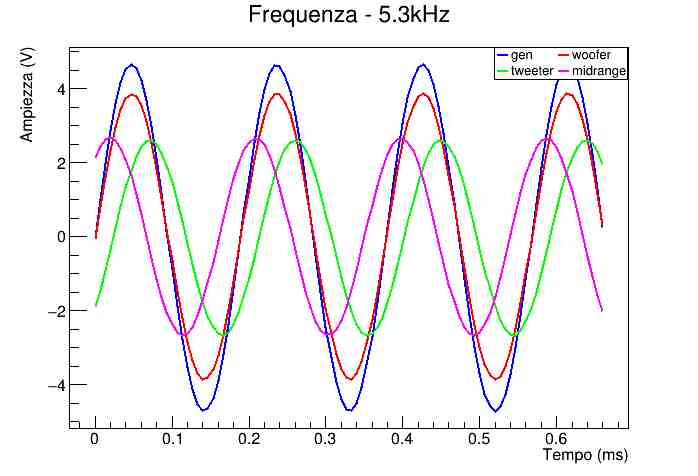
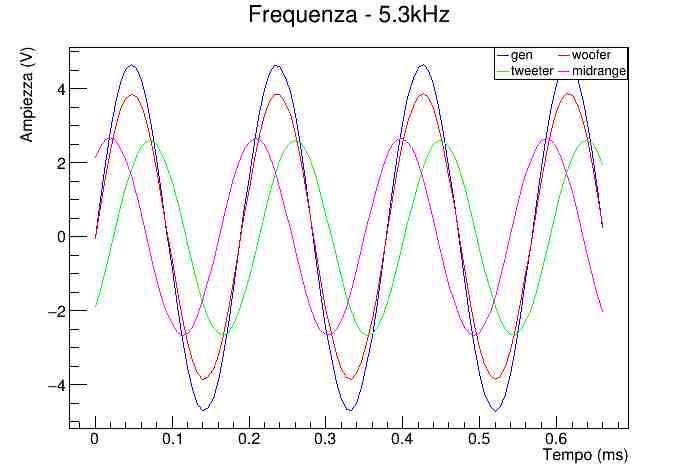
made line thinner

Changed region(s): [[0.1203, 0.1176, 0.8725, 0.8824], [0.8424, 0.5588, 0.8725, 0.6471], [0.692, 0.1471, 0.7221, 0.1765]]

diff --git a/multigrafico_tempo_2kHz_11kHz.tex b/multigrafico_tempo_2kHz_11kHz.tex
@@ -146,7 +146,7 @@
 \draw [anchor= east] (1.112,5.70996) node[scale=0.535452, color=c, rotate=0]{4};
 \draw [anchor= east] (0.583519,6.36377) node[scale=0.535452, color=c, rotate=90]{ Ampiezza (V)};
 \definecolor{c}{rgb}{0,0,1};
-\draw [c,line width=1.8] (1.50909,3.57257) -- (1.5628,4.20827) -- (1.6165,4.80173) -- (1.67021,5.31715) -- (1.72392,5.7203) -- (1.77762,5.9917) -- (1.83133,6.10876) -- (1.88504,6.06857) -- (1.93874,5.87088) -- (1.99245,5.52578) -- (2.04615,5.06012)
+\draw [c,line width=0.9] (1.50909,3.57257) -- (1.5628,4.20827) -- (1.6165,4.80173) -- (1.67021,5.31715) -- (1.72392,5.7203) -- (1.77762,5.9917) -- (1.83133,6.10876) -- (1.88504,6.06857) -- (1.93874,5.87088) -- (1.99245,5.52578) -- (2.04615,5.06012)
  -- (2.09986,4.4976) -- (2.15357,3.87995) -- (2.20727,3.24272) -- (2.26098,2.62259) -- (2.31469,2.06487) -- (2.36839,1.60197) -- (2.4221,1.25611) -- (2.4758,1.06322) -- (2.52951,1.02525) -- (2.58322,1.14616) -- (2.63692,1.41942) -- (2.69063,1.82889)
  -- (2.74434,2.34728) -- (2.79804,2.94048) -- (2.85175,3.57283) -- (2.90545,4.20776) -- (2.95916,4.80097) -- (3.01287,5.31663) -- (3.06657,5.72099) -- (3.12028,5.99161) -- (3.17399,6.10884) -- (3.22769,6.0684) -- (3.2814,5.8719) -- (3.3351,5.52518)
  -- (3.38881,5.06047) -- (3.44252,4.49837) -- (3.49622,3.87909) -- (3.54993,3.24314) -- (3.60364,2.62353) -- (3.65734,2.0653) -- (3.71105,1.60188) -- (3.76476,1.25799) -- (3.81846,1.06399) -- (3.87217,1.02491) -- (3.92587,1.1453) -- (3.97958,1.41891)
@@ -158,7 +158,7 @@
  (7.25566,6.06814) -- (7.30937,5.87045) -- (7.36308,5.52364) -- (7.41678,5.05824) -- (7.47049,4.49718) -- (7.5242,3.87721) -- (7.5779,3.24084) -- (7.63161,2.62165) -- (7.68531,2.06265) -- (7.73902,1.60103) -- (7.79273,1.25902) -- (7.84643,1.06433) --
  (7.90014,1.02491) -- (7.95385,1.14496) -- (8.00755,1.41857) -- (8.06126,1.83171) -- (8.11497,2.34856) -- (8.16867,2.94296) -- (8.22238,3.57523) -- (8.27608,4.20972) -- (8.32979,4.80131) -- (8.3835,5.31792) -- (8.4372,5.7227) -- (8.49091,5.99264);
 \definecolor{c}{rgb}{1,0,0};
-\draw [c,line width=1.8] (1.50909,2.91465) -- (1.5628,3.40192) -- (1.6165,3.90064) -- (1.67021,4.37842) -- (1.72392,4.80558) -- (1.77762,5.1558) -- (1.83133,5.40667) -- (1.88504,5.54271) -- (1.93874,5.55382) -- (1.99245,5.4401) -- (2.04615,5.20864)
+\draw [c,line width=0.9] (1.50909,2.91465) -- (1.5628,3.40192) -- (1.6165,3.90064) -- (1.67021,4.37842) -- (1.72392,4.80558) -- (1.77762,5.1558) -- (1.83133,5.40667) -- (1.88504,5.54271) -- (1.93874,5.55382) -- (1.99245,5.4401) -- (2.04615,5.20864)
  -- (2.09986,4.87381) -- (2.15357,4.45759) -- (2.20727,3.98631) -- (2.26098,3.48913) -- (2.31469,2.99716) -- (2.36839,2.54051) -- (2.4221,2.14772) -- (2.4758,1.84394) -- (2.52951,1.64831) -- (2.58322,1.57426) -- (2.63692,1.62685) -- (2.69063,1.80204)
  -- (2.74434,2.08804) -- (2.79804,2.46715) -- (2.85175,2.91423) -- (2.90545,3.40149) -- (2.95916,3.90055) -- (3.01287,4.37816) -- (3.06657,4.8055) -- (3.12028,5.15597) -- (3.17399,5.40684) -- (3.22769,5.54314) -- (3.2814,5.55408) -- (3.3351,5.44044)
  -- (3.38881,5.20924) -- (3.44252,4.87415) -- (3.49622,4.45793) -- (3.54993,3.98691) -- (3.60364,3.48964) -- (3.65734,2.99716) -- (3.71105,2.54051) -- (3.76476,2.14789) -- (3.81846,1.84394) -- (3.87217,1.64848) -- (3.92587,1.57435) --
@@ -171,7 +171,7 @@
  -- (7.84643,1.84385) -- (7.90014,1.64797) -- (7.95385,1.57426) -- (8.00755,1.62685) -- (8.06126,1.80255) -- (8.11497,2.08881) -- (8.16867,2.468) -- (8.22238,2.91551) -- (8.27608,3.40303) -- (8.32979,3.90166) -- (8.3835,4.37953) -- (8.4372,4.80644)
  -- (8.49091,5.157);
 \definecolor{c}{rgb}{0,1,0};
-\draw [c,line width=1.8] (1.50909,4.28342) -- (1.5628,4.30463) -- (1.6165,4.27941) -- (1.67021,4.21135) -- (1.72392,4.1061) -- (1.77762,3.96246) -- (1.83133,3.79624) -- (1.88504,3.61627) -- (1.93874,3.43774) -- (1.99245,3.26854) -- (2.04615,3.11763)
+\draw [c,line width=0.9] (1.50909,4.28342) -- (1.5628,4.30463) -- (1.6165,4.27941) -- (1.67021,4.21135) -- (1.72392,4.1061) -- (1.77762,3.96246) -- (1.83133,3.79624) -- (1.88504,3.61627) -- (1.93874,3.43774) -- (1.99245,3.26854) -- (2.04615,3.11763)
  -- (2.09986,2.99691) -- (2.15357,2.91337) -- (2.20727,2.87079) -- (2.26098,2.87293) -- (2.31469,2.9203) -- (2.36839,3.0105) -- (2.4221,3.1349) -- (2.4758,3.29205) -- (2.52951,3.46681) -- (2.58322,3.6467) -- (2.63692,3.82292) -- (2.69063,3.97785) --
  (2.74434,4.11507) -- (2.79804,4.21861) -- (2.85175,4.28069) -- (2.90545,4.30343) -- (2.95916,4.27855) -- (3.01287,4.21118) -- (3.06657,4.10695) -- (3.12028,3.96322) -- (3.17399,3.79641) -- (3.22769,3.61627) -- (3.2814,3.43749) -- (3.3351,3.26871) --
  (3.38881,3.11814) -- (3.44252,2.99708) -- (3.49622,2.91397) -- (3.54993,2.87199) -- (3.60364,2.87233) -- (3.65734,2.92064) -- (3.71105,3.01059) -- (3.76476,3.1361) -- (3.81846,3.29273) -- (3.87217,3.4669) -- (3.92587,3.64508) -- (3.97958,3.82095) --
@@ -183,7 +183,7 @@
  (7.25566,3.61558) -- (7.30937,3.43689) -- (7.36308,3.26897) -- (7.41678,3.11806) -- (7.47049,2.99605) -- (7.5242,2.91406) -- (7.5779,2.86994) -- (7.63161,2.87233) -- (7.68531,2.92021) -- (7.73902,3.00853) -- (7.79273,3.13405) -- (7.84643,3.29256) --
  (7.90014,3.46741) -- (7.95385,3.64764) -- (8.00755,3.82249) -- (8.06126,3.97827) -- (8.11497,4.1155) -- (8.16867,4.21673) -- (8.22238,4.28129) -- (8.27608,4.30369) -- (8.32979,4.27864) -- (8.3835,4.21118) -- (8.4372,4.10678) -- (8.49091,3.96314);
 \definecolor{c}{rgb}{1,0,1};
-\draw [c,line width=1.8] (1.50909,4.48606) -- (1.5628,4.5212) -- (1.6165,4.49795) -- (1.67021,4.41723) -- (1.72392,4.28462) -- (1.77762,4.10815) -- (1.83133,3.89842) -- (1.88504,3.66705) -- (1.93874,3.43056) -- (1.99245,3.20552) -- (2.04615,3.00734)
+\draw [c,line width=0.9] (1.50909,4.48606) -- (1.5628,4.5212) -- (1.6165,4.49795) -- (1.67021,4.41723) -- (1.72392,4.28462) -- (1.77762,4.10815) -- (1.83133,3.89842) -- (1.88504,3.66705) -- (1.93874,3.43056) -- (1.99245,3.20552) -- (2.04615,3.00734)
  -- (2.09986,2.84608) -- (2.15357,2.73092) -- (2.20727,2.66876) -- (2.26098,2.6614) -- (2.31469,2.71099) -- (2.36839,2.81471) -- (2.4221,2.96536) -- (2.4758,3.15688) -- (2.52951,3.37781) -- (2.58322,3.61575) -- (2.63692,3.8519) -- (2.69063,4.06873)
  -- (2.74434,4.2529) -- (2.79804,4.39509) -- (2.85175,4.48589) -- (2.90545,4.52086) -- (2.95916,4.49752) -- (3.01287,4.41732) -- (3.06657,4.28479) -- (3.12028,4.10883) -- (3.17399,3.8985) -- (3.22769,3.66731) -- (3.2814,3.43047) -- (3.3351,3.20561)
  -- (3.38881,3.00734) -- (3.44252,2.84634) -- (3.49622,2.731) -- (3.54993,2.66884) -- (3.60364,2.6614) -- (3.65734,2.71091) -- (3.71105,2.81402) -- (3.76476,2.96536) -- (3.81846,3.15662) -- (3.87217,3.37806) -- (3.92587,3.61575) -- (3.97958,3.8519)
@@ -205,28 +205,28 @@
 \definecolor{c}{rgb}{1,1,1};
 \draw [c, fill=c] (7.03732,6.16609) -- (7.19782,6.16609) -- (7.19782,6.33382) -- (7.03732,6.33382);
 \definecolor{c}{rgb}{0,0,1};
-\draw [c,line width=1.8] (7.03732,6.24995) -- (7.19782,6.24995);
+\draw [c,line width=0.9] (7.03732,6.24995) -- (7.19782,6.24995);
 \foreach \P in {(7.11757,6.24995)}{\draw[mark options={color=c,fill=c},mark size=2.402402pt, line width=0.000000pt, mark=*,mark size=1pt] plot coordinates {\P};}
 \definecolor{c}{rgb}{0,0,0};
 \draw [anchor=base west] (8.06842,6.19604) node[scale=0.44621, color=c, rotate=0]{woofer};
 \definecolor{c}{rgb}{1,1,1};
 \draw [c, fill=c] (7.87353,6.16609) -- (8.03403,6.16609) -- (8.03403,6.33382) -- (7.87353,6.33382);
 \definecolor{c}{rgb}{1,0,0};
-\draw [c,line width=1.8] (7.87353,6.24995) -- (8.03403,6.24995);
+\draw [c,line width=0.9] (7.87353,6.24995) -- (8.03403,6.24995);
 \foreach \P in {(7.95378,6.24995)}{\draw[mark options={color=c,fill=c},mark size=2.402402pt, line width=0.000000pt, mark=*,mark size=1pt] plot coordinates {\P};}
 \definecolor{c}{rgb}{0,0,0};
 \draw [anchor=base west] (7.23221,5.95642) node[scale=0.44621, color=c, rotate=0]{tweeter};
 \definecolor{c}{rgb}{1,1,1};
 \draw [c, fill=c] (7.03732,5.92647) -- (7.19782,5.92647) -- (7.19782,6.0942) -- (7.03732,6.0942);
 \definecolor{c}{rgb}{0,1,0};
-\draw [c,line width=1.8] (7.03732,6.01034) -- (7.19782,6.01034);
+\draw [c,line width=0.9] (7.03732,6.01034) -- (7.19782,6.01034);
 \foreach \P in {(7.11757,6.01034)}{\draw[mark options={color=c,fill=c},mark size=2.402402pt, line width=0.000000pt, mark=*,mark size=1pt] plot coordinates {\P};}
 \definecolor{c}{rgb}{0,0,0};
 \draw [anchor=base west] (8.06842,5.95642) node[scale=0.44621, color=c, rotate=0]{midrange};
 \definecolor{c}{rgb}{1,1,1};
 \draw [c, fill=c] (7.87353,5.92647) -- (8.03403,5.92647) -- (8.03403,6.0942) -- (7.87353,6.0942);
 \definecolor{c}{rgb}{1,0,1};
-\draw [c,line width=1.8] (7.87353,6.01034) -- (8.03403,6.01034);
+\draw [c,line width=0.9] (7.87353,6.01034) -- (8.03403,6.01034);
 \foreach \P in {(7.95378,6.01034)}{\draw[mark options={color=c,fill=c},mark size=2.402402pt, line width=0.000000pt, mark=*,mark size=1pt] plot coordinates {\P};}
 \definecolor{c}{rgb}{0,0,0};
 \draw (5,6.81154) node[scale=0.803177, color=c, rotate=0]{Frequenza - 2kHz};
@@ -325,7 +325,7 @@
 \draw [anchor= east] (11.112,5.70841) node[scale=0.535452, color=c, rotate=0]{4};
 \draw [anchor= east] (10.5835,6.36377) node[scale=0.535452, color=c, rotate=90]{ Ampiezza (V)};
 \definecolor{c}{rgb}{0,0,1};
-\draw [c,line width=1.8] (11.5091,3.60098) -- (11.5811,4.29321) -- (11.653,4.93079) -- (11.725,5.4656) -- (11.797,5.85484) -- (11.869,6.07074) -- (11.941,6.09688) -- (12.0129,5.93028) -- (12.0849,5.58538) -- (12.1569,5.08508) -- (12.2289,4.47065) --
+\draw [c,line width=0.9] (11.5091,3.60098) -- (11.5811,4.29321) -- (11.653,4.93079) -- (11.725,5.4656) -- (11.797,5.85484) -- (11.869,6.07074) -- (11.941,6.09688) -- (12.0129,5.93028) -- (12.0849,5.58538) -- (12.1569,5.08508) -- (12.2289,4.47065) --
  (12.3008,3.78858) -- (12.3728,3.09045) -- (12.4448,2.42692) -- (12.5168,1.85215) -- (12.5888,1.40338) -- (12.6607,1.12222) -- (12.7327,1.02474) -- (12.8047,1.12213) -- (12.8767,1.40449) -- (12.9486,1.85257) -- (13.0206,2.42965) -- (13.0926,3.09301)
  -- (13.1646,3.79131) -- (13.2366,4.4751) -- (13.3085,5.08944) -- (13.3805,5.58632) -- (13.4525,5.93302) -- (13.5245,6.09723) -- (13.5964,6.07083) -- (13.6684,5.85313) -- (13.7404,5.46184) -- (13.8124,4.9272) -- (13.8843,4.28886) -- (13.9563,3.5967)
  -- (14.0283,2.90532) -- (14.1003,2.26033) -- (14.1723,1.71435) -- (14.2442,1.31026) -- (14.3162,1.07566) -- (14.3882,1.03158) -- (14.4602,1.18202) -- (14.5321,1.51136) -- (14.6041,1.99926) -- (14.6761,2.60359) -- (14.7481,3.28412) --
@@ -335,7 +335,7 @@
  -- (17.4112,1.9486) -- (17.4832,1.47369) -- (17.5552,1.15955) -- (17.6272,1.02884) -- (17.6992,1.08967) -- (17.7711,1.34144) -- (17.8431,1.76116) -- (17.9151,2.31834) -- (17.9871,2.96897) -- (18.059,3.6636) -- (18.131,4.35532) -- (18.203,4.98581) --
  (18.275,5.50695) -- (18.347,5.88261) -- (18.4189,6.08133) -- (18.4909,6.08988);
 \definecolor{c}{rgb}{1,0,0};
-\draw [c,line width=1.8] (11.5091,2.8134) -- (11.5811,2.95257) -- (11.653,3.13761) -- (11.725,3.35537) -- (11.797,3.58842) -- (11.869,3.8201) -- (11.941,4.03154) -- (12.0129,4.20838) -- (12.0849,4.33584) -- (12.1569,4.4053) -- (12.2289,4.41102) --
+\draw [c,line width=0.9] (11.5091,2.8134) -- (11.5811,2.95257) -- (11.653,3.13761) -- (11.725,3.35537) -- (11.797,3.58842) -- (11.869,3.8201) -- (11.941,4.03154) -- (12.0129,4.20838) -- (12.0849,4.33584) -- (12.1569,4.4053) -- (12.2289,4.41102) --
  (12.3008,4.35284) -- (12.3728,4.23469) -- (12.4448,4.06623) -- (12.5168,3.85966) -- (12.5888,3.63147) -- (12.6607,3.398) -- (12.7327,3.17767) -- (12.8047,2.98665) -- (12.8767,2.84023) -- (12.9486,2.74865) -- (13.0206,2.71977) -- (13.0926,2.75548) --
  (13.1646,2.8533) -- (13.2366,3.00502) -- (13.3085,3.20023) -- (13.3805,3.42277) -- (13.4525,3.65693) -- (13.5245,3.88435) -- (13.5964,4.08767) -- (13.6684,4.25144) -- (13.7404,4.36404) -- (13.8124,4.41547) -- (13.8843,4.40368) -- (13.9563,4.3279) --
  (14.0283,4.19523) -- (14.1003,4.0142) -- (14.1723,3.80045) -- (14.2442,3.56868) -- (14.3162,3.33691) -- (14.3882,3.12257) -- (14.4602,2.94291) -- (14.5321,2.80973) -- (14.6041,2.73524) -- (14.6761,2.7237) -- (14.7481,2.77718) -- (14.8201,2.89012) --
@@ -345,7 +345,7 @@
  (17.4832,3.67504) -- (17.5552,3.44088) -- (17.6272,3.21706) -- (17.6992,3.01912) -- (17.7711,2.86364) -- (17.8431,2.76146) -- (17.9151,2.72131) -- (17.9871,2.74489) -- (18.059,2.83211) -- (18.131,2.97469) -- (18.203,3.16289) -- (18.275,3.38168) --
  (18.347,3.61499) -- (18.4189,3.84454) -- (18.4909,4.05367);
 \definecolor{c}{rgb}{0,1,0};
-\draw [c,line width=1.8] (11.5091,4.70807) -- (11.5811,5.0803) -- (11.653,5.34198) -- (11.725,5.46833) -- (11.797,5.45372) -- (11.869,5.29542) -- (11.941,5.00981) -- (12.0129,4.61349) -- (12.0849,4.13688) -- (12.1569,3.61909) -- (12.2289,3.09968) --
+\draw [c,line width=0.9] (11.5091,4.70807) -- (11.5811,5.0803) -- (11.653,5.34198) -- (11.725,5.46833) -- (11.797,5.45372) -- (11.869,5.29542) -- (11.941,5.00981) -- (12.0129,4.61349) -- (12.0849,4.13688) -- (12.1569,3.61909) -- (12.2289,3.09968) --
  (12.3008,2.62153) -- (12.3728,2.21309) -- (12.4448,1.90827) -- (12.5168,1.73083) -- (12.5888,1.69239) -- (12.6607,1.79935) -- (12.7327,2.04086) -- (12.8047,2.40086) -- (12.8767,2.85475) -- (12.9486,3.36006) -- (13.0206,3.88477) -- (13.0926,4.38317)
  -- (13.1646,4.81879) -- (13.2366,5.16522) -- (13.3085,5.39161) -- (13.3805,5.48072) -- (13.4525,5.42647) -- (13.5245,5.23219) -- (13.5964,4.91063) -- (13.6684,4.48877) -- (13.7404,3.99857) -- (13.8124,3.47582) -- (13.8843,2.9629) --
  (13.9563,2.50099) -- (14.0283,2.11843) -- (14.1003,1.84659) -- (14.1723,1.70512) -- (14.2442,1.70751) -- (14.3162,1.85215) -- (14.3882,2.13022) -- (14.4602,2.51773) -- (14.5321,2.98905) -- (14.6041,3.50376) -- (14.6761,4.02479) -- (14.7481,4.50773)
@@ -355,7 +355,7 @@
  -- (17.4112,1.75211) -- (17.4832,1.68855) -- (17.5552,1.76877) -- (17.6272,1.98772) -- (17.6992,2.32885) -- (17.7711,2.76881) -- (17.8431,3.26609) -- (17.9151,3.79123) -- (17.9871,4.2974) -- (18.059,4.74685) -- (18.131,5.11062) -- (18.203,5.36043)
  -- (18.275,5.47431) -- (18.347,5.44646) -- (18.4189,5.27713) -- (18.4909,4.97735);
 \definecolor{c}{rgb}{1,0,1};
-\draw [c,line width=1.8] (11.5091,2.81486) -- (11.5811,3.02544) -- (11.653,3.27882) -- (11.725,3.5551) -- (11.797,3.83403) -- (11.869,4.09408) -- (11.941,4.31594) -- (12.0129,4.48176) -- (12.0849,4.58035) -- (12.1569,4.60333) -- (12.2289,4.54934) --
+\draw [c,line width=0.9] (11.5091,2.81486) -- (11.5811,3.02544) -- (11.653,3.27882) -- (11.725,3.5551) -- (11.797,3.83403) -- (11.869,4.09408) -- (11.941,4.31594) -- (12.0129,4.48176) -- (12.0849,4.58035) -- (12.1569,4.60333) -- (12.2289,4.54934) --
  (12.3008,4.42221) -- (12.3728,4.23153) -- (12.4448,3.99224) -- (12.5168,3.72229) -- (12.5888,3.44216) -- (12.6607,3.17315) -- (12.7327,2.93557) -- (12.8047,2.74762) -- (12.8767,2.62349) -- (12.9486,2.57232) -- (13.0206,2.59829) -- (13.0926,2.69935)
  -- (13.1646,2.86782) -- (13.2366,3.09105) -- (13.3085,3.35212) -- (13.3805,3.63062) -- (13.4525,3.90587) -- (13.5245,4.15695) -- (13.5964,4.36446) -- (13.6684,4.51303) -- (13.7404,4.59111) -- (13.8124,4.59291) -- (13.8843,4.5179) --
  (13.9563,4.37224) -- (14.0283,4.16686) -- (14.1003,3.91741) -- (14.1723,3.64275) -- (14.2442,3.36374) -- (14.3162,3.10164) -- (14.3882,2.87628) -- (14.4602,2.70474) -- (14.5321,2.59991) -- (14.6041,2.56984) -- (14.6761,2.61709) -- (14.7481,2.73788)
@@ -375,28 +375,28 @@
 \definecolor{c}{rgb}{1,1,1};
 \draw [c, fill=c] (17.0373,6.16609) -- (17.1978,6.16609) -- (17.1978,6.33382) -- (17.0373,6.33382);
 \definecolor{c}{rgb}{0,0,1};
-\draw [c,line width=1.8] (17.0373,6.24995) -- (17.1978,6.24995);
+\draw [c,line width=0.9] (17.0373,6.24995) -- (17.1978,6.24995);
 \foreach \P in {(17.1176,6.24995)}{\draw[mark options={color=c,fill=c},mark size=2.402402pt, line width=0.000000pt, mark=*,mark size=1pt] plot coordinates {\P};}
 \definecolor{c}{rgb}{0,0,0};
 \draw [anchor=base west] (18.0684,6.19604) node[scale=0.44621, color=c, rotate=0]{woofer};
 \definecolor{c}{rgb}{1,1,1};
 \draw [c, fill=c] (17.8735,6.16609) -- (18.034,6.16609) -- (18.034,6.33382) -- (17.8735,6.33382);
 \definecolor{c}{rgb}{1,0,0};
-\draw [c,line width=1.8] (17.8735,6.24995) -- (18.034,6.24995);
+\draw [c,line width=0.9] (17.8735,6.24995) -- (18.034,6.24995);
 \foreach \P in {(17.9538,6.24995)}{\draw[mark options={color=c,fill=c},mark size=2.402402pt, line width=0.000000pt, mark=*,mark size=1pt] plot coordinates {\P};}
 \definecolor{c}{rgb}{0,0,0};
 \draw [anchor=base west] (17.2322,5.95642) node[scale=0.44621, color=c, rotate=0]{tweeter};
 \definecolor{c}{rgb}{1,1,1};
 \draw [c, fill=c] (17.0373,5.92647) -- (17.1978,5.92647) -- (17.1978,6.0942) -- (17.0373,6.0942);
 \definecolor{c}{rgb}{0,1,0};
-\draw [c,line width=1.8] (17.0373,6.01034) -- (17.1978,6.01034);
+\draw [c,line width=0.9] (17.0373,6.01034) -- (17.1978,6.01034);
 \foreach \P in {(17.1176,6.01034)}{\draw[mark options={color=c,fill=c},mark size=2.402402pt, line width=0.000000pt, mark=*,mark size=1pt] plot coordinates {\P};}
 \definecolor{c}{rgb}{0,0,0};
 \draw [anchor=base west] (18.0684,5.95642) node[scale=0.44621, color=c, rotate=0]{midrange};
 \definecolor{c}{rgb}{1,1,1};
 \draw [c, fill=c] (17.8735,5.92647) -- (18.034,5.92647) -- (18.034,6.0942) -- (17.8735,6.0942);
 \definecolor{c}{rgb}{1,0,1};
-\draw [c,line width=1.8] (17.8735,6.01034) -- (18.034,6.01034);
+\draw [c,line width=0.9] (17.8735,6.01034) -- (18.034,6.01034);
 \foreach \P in {(17.9538,6.01034)}{\draw[mark options={color=c,fill=c},mark size=2.402402pt, line width=0.000000pt, mark=*,mark size=1pt] plot coordinates {\P};}
 \definecolor{c}{rgb}{0,0,0};
 \draw (15,6.81154) node[scale=0.803177, color=c, rotate=0]{Frequenza - 11kHz};

diff --git a/multigrafico_tempo_5.3kHz.tex b/multigrafico_tempo_5.3kHz.tex
@@ -153,7 +153,7 @@
 \draw [anchor= east] (1.9,11.0948) node[scale=1.08185, color=c, rotate=0]{4};
 \draw [anchor= east] (0.812894,12.2751) node[scale=1.08185, color=c, rotate=90]{ Ampiezza (V)};
 \definecolor{c}{rgb}{0,0,1};
-\draw [c,line width=1.8] (2.72727,6.84364) -- (2.8742,7.92827) -- (3.02112,8.96413) -- (3.16804,9.89408) -- (3.31497,10.6746) -- (3.46189,11.2643) -- (3.60882,11.6382) -- (3.75574,11.7791) -- (3.90266,11.674) -- (4.04959,11.3363) -- (4.19651,10.772)
+\draw [c,line width=0.9] (2.72727,6.84364) -- (2.8742,7.92827) -- (3.02112,8.96413) -- (3.16804,9.89408) -- (3.31497,10.6746) -- (3.46189,11.2643) -- (3.60882,11.6382) -- (3.75574,11.7791) -- (3.90266,11.674) -- (4.04959,11.3363) -- (4.19651,10.772)
  -- (4.34343,10.0162) -- (4.49036,9.1057) -- (4.63728,8.08417) -- (4.78421,7.00022) -- (4.93113,5.91424) -- (5.07805,4.8656) -- (5.22498,3.913) -- (5.3719,3.10212) -- (5.51882,2.47135) -- (5.66575,2.05329) -- (5.81267,1.86822) -- (5.9596,1.92775) --
  (6.10652,2.22608) -- (6.25344,2.74682) -- (6.40037,3.47055) -- (6.54729,4.3551) -- (6.69421,5.35888) -- (6.84114,6.43804) -- (6.98806,7.52846) -- (7.13499,8.59093) -- (7.28191,9.56454) -- (7.42883,10.4026) -- (7.57576,11.0678) -- (7.72268,11.5243)
  -- (7.86961,11.7506) -- (8.01653,11.737) -- (8.16345,11.4867) -- (8.31038,11.0043) -- (8.4573,10.3162) -- (8.60422,9.46151) -- (8.75115,8.47221) -- (8.89807,7.40839) -- (9.045,6.31779) -- (9.19192,5.25074) -- (9.33884,4.25566) -- (9.48577,3.38356)
@@ -163,7 +163,7 @@
  -- (14.9219,4.60259) -- (15.0689,5.63042) -- (15.2158,6.71674) -- (15.3627,7.80291) -- (15.5096,8.849) -- (15.6566,9.79498) -- (15.8035,10.5921) -- (15.9504,11.2072) -- (16.0973,11.6084) -- (16.2443,11.7706) -- (16.3912,11.6964) -- (16.5381,11.3851)
  -- (16.685,10.8454) -- (16.832,10.1139) -- (16.9789,9.22066) -- (17.1258,8.20937) -- (17.2727,7.12798);
 \definecolor{c}{rgb}{1,0,0};
-\draw [c,line width=1.8] (2.72727,6.81942) -- (2.8742,7.71302) -- (3.02112,8.56636) -- (3.16804,9.33751) -- (3.31497,9.9884) -- (3.46189,10.4885) -- (3.60882,10.8123) -- (3.75574,10.9424) -- (3.90266,10.8721) -- (4.04959,10.6037) -- (4.19651,10.1518)
+\draw [c,line width=0.9] (2.72727,6.81942) -- (2.8742,7.71302) -- (3.02112,8.56636) -- (3.16804,9.33751) -- (3.31497,9.9884) -- (3.46189,10.4885) -- (3.60882,10.8123) -- (3.75574,10.9424) -- (3.90266,10.8721) -- (4.04959,10.6037) -- (4.19651,10.1518)
  -- (4.34343,9.53827) -- (4.49036,8.79458) -- (4.63728,7.95727) -- (4.78421,7.06623) -- (4.93113,6.16531) -- (5.07805,5.29799) -- (5.22498,4.50742) -- (5.3719,3.83078) -- (5.51882,3.30134) -- (5.66575,2.94417) -- (5.81267,2.77787) -- (5.9596,2.81079)
  -- (6.10652,3.04208) -- (6.25344,3.46082) -- (6.40037,4.04382) -- (6.54729,4.76378) -- (6.69421,5.58488) -- (6.84114,6.46908) -- (6.98806,7.37189) -- (7.13499,8.25013) -- (7.28191,9.06033) -- (7.42883,9.7641) -- (7.57576,10.3265) --
  (7.72268,10.7214) -- (7.86961,10.9262) -- (8.01653,10.932) -- (8.16345,10.7364) -- (8.31038,10.35) -- (8.4573,9.79327) -- (8.60422,9.09376) -- (8.75115,8.28595) -- (8.89807,7.40839) -- (9.045,6.5049) -- (9.19192,5.61848) -- (9.33884,4.79346) --
@@ -173,7 +173,7 @@
  -- (14.775,4.2137) -- (14.9219,4.96283) -- (15.0689,5.80439) -- (15.2158,6.69679) -- (15.3627,7.59789) -- (15.5096,8.46283) -- (15.6566,9.24983) -- (15.8035,9.92086) -- (15.9504,10.4432) -- (16.0973,10.7908) -- (16.2443,10.9467) -- (16.3912,10.9003)
  -- (16.5381,10.6553) -- (16.685,10.2233) -- (16.832,9.62765) -- (16.9789,8.89744) -- (17.1258,8.06831) -- (17.2727,7.18);
 \definecolor{c}{rgb}{0,1,0};
-\draw [c,line width=1.8] (2.72727,4.8436) -- (2.8742,5.32698) -- (3.02112,5.88473) -- (3.16804,6.48716) -- (3.31497,7.10512) -- (3.46189,7.70909) -- (3.60882,8.26958) -- (3.75574,8.76098) -- (3.90266,9.15738) -- (4.04959,9.43968) -- (4.19651,9.59455)
+\draw [c,line width=0.9] (2.72727,4.8436) -- (2.8742,5.32698) -- (3.02112,5.88473) -- (3.16804,6.48716) -- (3.31497,7.10512) -- (3.46189,7.70909) -- (3.60882,8.26958) -- (3.75574,8.76098) -- (3.90266,9.15738) -- (4.04959,9.43968) -- (4.19651,9.59455)
  -- (4.34343,9.61434) -- (4.49036,9.49733) -- (4.63728,9.25) -- (4.78421,8.88345) -- (4.93113,8.41746) -- (5.07805,7.87369) -- (5.22498,7.27859) -- (5.3719,6.66165) -- (5.51882,6.05222) -- (5.66575,5.481) -- (5.81267,4.9746) -- (5.9596,4.55859) --
  (6.10652,4.25293) -- (6.25344,4.07282) -- (6.40037,4.02813) -- (6.54729,4.1204) -- (6.69421,4.34521) -- (6.84114,4.6918) -- (6.98806,5.14209) -- (7.13499,5.67408) -- (7.28191,6.26168) -- (7.42883,6.87725) -- (7.57576,7.49009) -- (7.72268,8.06967) --
  (7.86961,8.58939) -- (8.01653,9.02246) -- (8.16345,9.34962) -- (8.31038,9.55242) -- (8.4573,9.62372) -- (8.60422,9.55737) -- (8.75115,9.3578) -- (8.89807,9.03236) -- (9.045,8.60116) -- (9.19192,8.08332) -- (9.33884,7.50424) -- (9.48577,6.89208) --
@@ -183,7 +183,7 @@
  -- (14.9219,4.16492) -- (15.0689,4.42231) -- (15.2158,4.79721) -- (15.3627,5.2707) -- (15.5096,5.81991) -- (15.6566,6.41774) -- (15.8035,7.03519) -- (15.9504,7.64155) -- (16.0973,8.20902) -- (16.2443,8.7093) -- (16.3912,9.11679) -- (16.5381,9.41358)
  -- (16.685,9.58398) -- (16.832,9.6198) -- (16.9789,9.51882) -- (17.1258,9.28599) -- (17.2727,8.93291);
 \definecolor{c}{rgb}{1,0,1};
-\draw [c,line width=1.8] (2.72727,9.12412) -- (2.8742,9.44172) -- (3.02112,9.63276) -- (3.16804,9.68786) -- (3.31497,9.60564) -- (3.46189,9.3955) -- (3.60882,9.05743) -- (3.75574,8.60952) -- (3.90266,8.07513) -- (4.04959,7.48071) -- (4.19651,6.85439)
+\draw [c,line width=0.9] (2.72727,9.12412) -- (2.8742,9.44172) -- (3.02112,9.63276) -- (3.16804,9.68786) -- (3.31497,9.60564) -- (3.46189,9.3955) -- (3.60882,9.05743) -- (3.75574,8.60952) -- (3.90266,8.07513) -- (4.04959,7.48071) -- (4.19651,6.85439)
  -- (4.34343,6.23115) -- (4.49036,5.64185) -- (4.63728,5.11224) -- (4.78421,4.67099) -- (4.93113,4.32696) -- (5.07805,4.10915) -- (5.22498,4.02727) -- (5.3719,4.08049) -- (5.51882,4.26931) -- (5.66575,4.58741) -- (5.81267,5.01809) -- (5.9596,5.54036)
  -- (6.10652,6.12557) -- (6.25344,6.75052) -- (6.40037,7.37086) -- (6.54729,7.96938) -- (6.69421,8.51008) -- (6.84114,8.96805) -- (6.98806,9.32727) -- (7.13499,9.56846) -- (7.28191,9.67865) -- (7.42883,9.65016) -- (7.57576,9.48488) --
  (7.72268,9.19082) -- (7.86961,8.78401) -- (8.01653,8.28015) -- (8.16345,7.70722) -- (8.31038,7.08602) -- (8.4573,6.46226) -- (8.60422,5.8559) -- (8.75115,5.30071) -- (8.89807,4.81887) -- (9.045,4.4409) -- (9.19192,4.17447) -- (9.33884,4.0428) --
@@ -203,28 +203,28 @@
 \definecolor{c}{rgb}{1,1,1};
 \draw [c, fill=c] (14.2444,11.8894) -- (14.5788,11.8894) -- (14.5788,12.2166) -- (14.2444,12.2166);
 \definecolor{c}{rgb}{0,0,1};
-\draw [c,line width=1.8] (14.2444,12.053) -- (14.5788,12.053);
+\draw [c,line width=0.9] (14.2444,12.053) -- (14.5788,12.053);
 \foreach \P in {(14.4116,12.053)}{\draw[mark options={color=c,fill=c},mark size=2.402402pt, line width=0.000000pt, mark=*,mark size=1pt] plot coordinates {\P};}
 \definecolor{c}{rgb}{0,0,0};
 \draw [anchor=base west] (16.3986,11.9479) node[scale=0.890934, color=c, rotate=0]{woofer};
 \definecolor{c}{rgb}{1,1,1};
 \draw [c, fill=c] (15.9926,11.8894) -- (16.327,11.8894) -- (16.327,12.2166) -- (15.9926,12.2166);
 \definecolor{c}{rgb}{1,0,0};
-\draw [c,line width=1.8] (15.9926,12.053) -- (16.327,12.053);
+\draw [c,line width=0.9] (15.9926,12.053) -- (16.327,12.053);
 \foreach \P in {(16.1598,12.053)}{\draw[mark options={color=c,fill=c},mark size=2.402402pt, line width=0.000000pt, mark=*,mark size=1pt] plot coordinates {\P};}
 \definecolor{c}{rgb}{0,0,0};
 \draw [anchor=base west] (14.6504,11.4804) node[scale=0.890934, color=c, rotate=0]{tweeter};
 \definecolor{c}{rgb}{1,1,1};
 \draw [c, fill=c] (14.2444,11.422) -- (14.5788,11.422) -- (14.5788,11.7492) -- (14.2444,11.7492);
 \definecolor{c}{rgb}{0,1,0};
-\draw [c,line width=1.8] (14.2444,11.5856) -- (14.5788,11.5856);
+\draw [c,line width=0.9] (14.2444,11.5856) -- (14.5788,11.5856);
 \foreach \P in {(14.4116,11.5856)}{\draw[mark options={color=c,fill=c},mark size=2.402402pt, line width=0.000000pt, mark=*,mark size=1pt] plot coordinates {\P};}
 \definecolor{c}{rgb}{0,0,0};
 \draw [anchor=base west] (16.3986,11.4804) node[scale=0.890934, color=c, rotate=0]{midrange};
 \definecolor{c}{rgb}{1,1,1};
 \draw [c, fill=c] (15.9926,11.422) -- (16.327,11.422) -- (16.327,11.7492) -- (15.9926,11.7492);
 \definecolor{c}{rgb}{1,0,1};
-\draw [c,line width=1.8] (15.9926,11.5856) -- (16.327,11.5856);
+\draw [c,line width=0.9] (15.9926,11.5856) -- (16.327,11.5856);
 \foreach \P in {(16.1598,11.5856)}{\draw[mark options={color=c,fill=c},mark size=2.402402pt, line width=0.000000pt, mark=*,mark size=1pt] plot coordinates {\P};}
 \definecolor{c}{rgb}{0,0,0};
 \draw (10,13.1582) node[scale=1.52731, color=c, rotate=0]{Frequenza - 5.3kHz};

diff --git a/time_graphic.cpp b/time_graphic.cpp
@@ -25,19 +25,19 @@ void grafico() {
   // Cosmetics
   graph_Gen->SetLineColor(kBlue);
   graph_Gen->SetMarkerColor(kBlue);
-  graph_Gen->SetLineWidth(2);
+  graph_Gen->SetLineWidth(1);
 
   graph_W->SetLineColor(kRed);
   graph_W->SetMarkerColor(kRed);
-  graph_W->SetLineWidth(2);
+  graph_W->SetLineWidth(1);
 
   graph_T->SetLineColor(kGreen);
   graph_T->SetMarkerColor(kGreen);
-  graph_T->SetLineWidth(2);
+  graph_T->SetLineWidth(1);
 
   graph_M->SetLineColor(kMagenta);
   graph_M->SetMarkerColor(kMagenta);
-  graph_M->SetLineWidth(2);
+  graph_M->SetLineWidth(1);
 
   // Draw the 2kHz multi-graph!
   TCanvas *myCanvas = new TCanvas("myCanvas","myCanvas", 1000,380);
@@ -73,19 +73,19 @@ void grafico() {
   // Cosmetics
   graph_Gen2->SetLineColor(kBlue);
   graph_Gen2->SetMarkerColor(kBlue);
-  graph_Gen2->SetLineWidth(2);
+  graph_Gen2->SetLineWidth(1);
 
   graph_W2->SetLineColor(kRed);
   graph_W2->SetMarkerColor(kRed);
-  graph_W2->SetLineWidth(2);
+  graph_W2->SetLineWidth(1);
 
   graph_T2->SetLineColor(kGreen);
   graph_T2->SetMarkerColor(kGreen);
-  graph_T2->SetLineWidth(2);
+  graph_T2->SetLineWidth(1);
 
   graph_M2->SetLineColor(kMagenta);
   graph_M2->SetMarkerColor(kMagenta);
-  graph_M2->SetLineWidth(2);
+  graph_M2->SetLineWidth(1);
 
   // Draw the 11kHz multi-graph!
   myCanvas->cd(2);
@@ -120,19 +120,19 @@ void grafico() {
   // Cosmetics
   graph_Gen3->SetLineColor(kBlue);
   graph_Gen3->SetMarkerColor(kBlue);
-  graph_Gen3->SetLineWidth(2);
+  graph_Gen3->SetLineWidth(1);
 
   graph_W3->SetLineColor(kRed);
   graph_W3->SetMarkerColor(kRed);
-  graph_W3->SetLineWidth(2);
+  graph_W3->SetLineWidth(1);
 
   graph_T3->SetLineColor(kGreen);
   graph_T3->SetMarkerColor(kGreen);
-  graph_T3->SetLineWidth(2);
+  graph_T3->SetLineWidth(1);
 
   graph_M3->SetLineColor(kMagenta);
   graph_M3->SetMarkerColor(kMagenta);
-  graph_M3->SetLineWidth(2);
+  graph_M3->SetLineWidth(1);
 
   TCanvas *myCanvas3 = new TCanvas();
   // Draw the 5.3kHz multi-graph!
